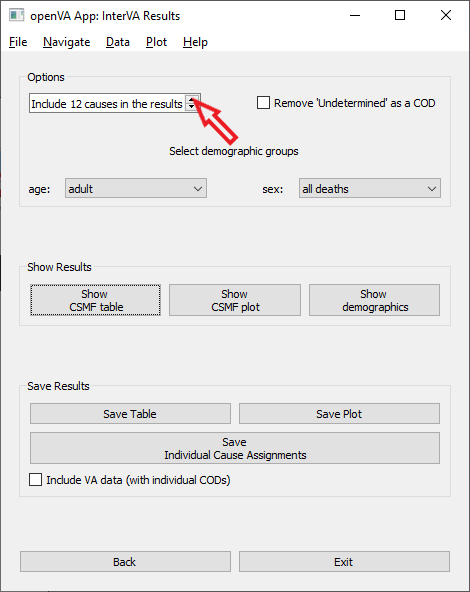
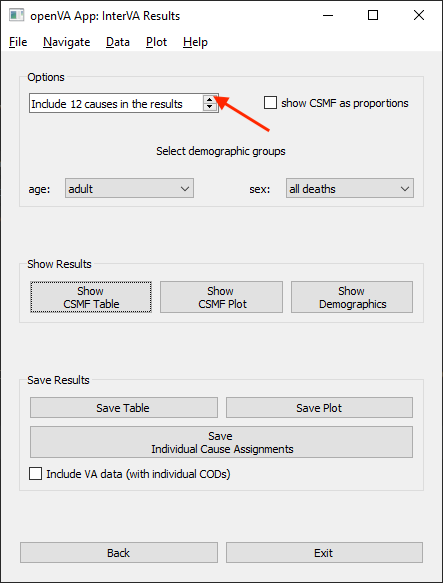
updated docs; fixed window title for popup window showing IDs for VA records removed by data checks

diff --git a/pyopenva/command_center.py b/pyopenva/command_center.py
@@ -911,7 +911,8 @@ class CommandCenter(QWidget):
                 msg += "\n(InterVA is available.)\n\n"
                 # alert = QMessageBox()
                 # alert.setText(msg)
-                alert = ScrollMessageBox(msg, id_removed)
+                alert = ScrollMessageBox("openVA App: InSilicoVA message",
+                                         msg, id_removed)
                 alert.exec()
                 self.btn_insilicova_options.setEnabled(True)
                 self.btn_insilicova_run.setEnabled(True)
@@ -1076,7 +1077,8 @@ class CommandCenter(QWidget):
                    "because of missing data.")
             if self.pycrossva_data["ID"].is_unique:
                 msg += "  IDs are listed below."
-            alert = ScrollMessageBox(msg, id_removed)
+            alert = ScrollMessageBox("openVA App: InterVA message",
+                                     msg, id_removed)
             alert.exec()
             self.interva_log = None
             self.interva_results = None
@@ -1412,16 +1414,16 @@ class PyCrossVADialog(QDialog):
 
 class ScrollMessageBox(QMessageBox):
 
-    def __init__(self, msg, l, *args, **kwargs):
+    def __init__(self, title, msg, msg_list, *args, **kwargs):
         QMessageBox.__init__(self, *args, **kwargs)
-        self.setWindowTitle("openVA App: InSilicoVA message")
+        self.setWindowTitle(title)
         scroll = QScrollArea(self)
         scroll.setWidgetResizable(True)
         self.content = QWidget()
         scroll.setWidget(self.content)
         lay = QVBoxLayout(self.content)
         lay.addWidget(QLabel(msg, self))
-        for item in l:
+        for item in msg_list:
             lay.addWidget(QLabel(item, self))
-        self.layout().addWidget(scroll, 0, 0, 1, self.layout().columnCount())
+        self.layout().addWidget(scroll)
         self.setStyleSheet("QScrollArea{min-width:500 px; min-height: 400px}")

diff --git a/pyopenva/efficient.py b/pyopenva/efficient.py
@@ -886,7 +886,8 @@ class Efficient(QWidget):
                 if self.pycrossva_data["ID"].is_unique:
                     msg += "  IDs are listed below."
                 msg += "\n(InterVA is available.)\n\n"
-                alert = ScrollMessageBox(msg, id_removed)
+                alert = ScrollMessageBox("openVA App: InSilicoVA message",
+                                         msg, id_removed)
                 alert.exec()
                 self.btn_insilicova_run.setEnabled(True)
                 self.btn_load_data.setEnabled(True)
@@ -1014,7 +1015,8 @@ class Efficient(QWidget):
                    "because of missing data.")
             if self.pycrossva_data["ID"].is_unique:
                 msg += "  IDs are listed below."
-            alert = ScrollMessageBox(msg, id_removed)
+            alert = ScrollMessageBox("openVA App: InterVA message",
+                                     msg, id_removed)
             alert.exec()
             self.btn_insilicova_run.setEnabled(True)
             self.btn_load_data.setEnabled(True)
@@ -1654,9 +1656,9 @@ class Efficient(QWidget):
 
 class ScrollMessageBox(QMessageBox):
 
-    def __init__(self, msg, msg_list, *args, **kwargs):
+    def __init__(self, title, msg, msg_list, *args, **kwargs):
         QMessageBox.__init__(self, *args, **kwargs)
-        self.setWindowTitle("openVA App: InSilicoVA message")
+        self.setWindowTitle(title)
         scroll = QScrollArea(self)
         scroll.setWidgetResizable(True)
         self.content = QWidget()

diff --git a/docs/source/conf.py b/docs/source/conf.py
@@ -9,12 +9,12 @@
 project = 'openVA App'
 copyright = '2023, openVA Team'
 author = 'openVA Team (Jason Thomas, Sherry Zhao, & Peter Choi)'
-release = '0.0.1'
+release = '1.1'
 
 # -- General configuration ---------------------------------------------------
 # https://www.sphinx-doc.org/en/master/usage/configuration.html#general-configuration
 
-extensions = []
+extensions = ['sphinxemoji.sphinxemoji',]
 
 templates_path = ['_templates']
 exclude_patterns = []

diff --git a/docs/source/custom.rst b/docs/source/custom.rst
@@ -132,8 +132,8 @@ button will produce a message stating that "InSilicoVA is unavailable.  At least
 
 Controls for the InSilicoVA algorithm are located at the top of the "Algorithms" panel on the right side of the
 "Command Center" window.  There are four options which are accessible by clicking on the "Set Options" button.  Doing so
-will produce a new window (entitled "InSilicoVA Options") with the following controls: (1) Number of Iterations, (2) Automatically
-increase chain length until convergence, (3) Jump Scale, and (4) Set Seed.  
+will produce a new window (entitled "InSilicoVA Options") with the following controls: (1) Number of Iterations,
+(2) Automatically increase chain length until convergence, (3) Jump Scale, and (4) Set Seed.
 
 
 .. image:: img/cust_cc_insilicova_options.png
@@ -225,8 +225,8 @@ the beginning.  Once the results are ready, the message below the progress bar w
 and you will be able to save the log file from the data checks by clicking on the "Save log from data checks" button.
 
 Clicking on the "Results" button, which will take you to a new window where you will be able to access the cause
-of death results produced.  Clicking the "Go Back to User Mode Selection" button will return to the window where you can select the
-mode, and you can click the "Exit" button to close the openVA App.
+of death results produced.  Clicking the "Go Back to User Mode Selection" button will return to the window where you can
+select the mode, and you can click the "Exit" button to close the openVA App.
 
 
 .. _cust_step4:
@@ -235,26 +235,29 @@ Step 4: View and Save Results
 =============================
 
 In the "Results" window, there are several options for tailoring the COD results for both algorithms.  There is an
-"InSilicoVA" tab and an "InterVA" tab near the top of the window.  On either tab, you are also able to view the CSMF (cause-specific mortality fractions)
-results as a table or plot, as well as saving these results as a CSV or PDF file.  The age and sex distribution of the
-deaths can also be viewed as a table, and the individual cause assignments can be saved as a CSV file.
+"InSilicoVA" tab and an "InterVA" tab near the top of the window.  On either tab, you are also able to view the CSMF
+(cause-specific mortality fractions) results as a table or plot, as well as saving these results as a CSV or PDF file.
+The age and sex distribution of the deaths can also be viewed as a table, and the individual cause assignments can be
+saved as a CSV file.
 
 
 .. image:: img/cust_results.png
 
 
-Just above the algorithm tabs at the top of the "Results" window is a box where you can choose the number of causes to include
-when viewing or saving the COD results.  The default is "Include 5 causes in the results", but clicking the up arrow
-at the side of the box will add more causes to the summaries, while clicking the down arrow includes fewer causes.
+Just above the algorithm tabs at the top of the "Results" window is a box where you can choose the number of causes to
+include when viewing or saving the COD results.  The default is "Include 5 causes in the results", but clicking the up
+arrow at the side of the box will add more causes to the summaries, while clicking the down arrow includes fewer causes.
 
 When exploring results from the InterVA algorithm, it is also possible to exclude "Undetermined" as a cause of death
-by clicking the box next to the label "Remove 'Undetermined' as a COD".  Since InSilicoVA does not assign "Undetermined"
-as a COD, this option is not available when exploring InSilicoVA results.
+by unchecking the box next to the label "Count uncertain assignments as 'Undetermined'" -- simply check or uncheck this
+option by clicking on the box.  Since InSilicoVA does not assign "Undetermined" as a COD, this option is not available
+when exploring InSilicoVA results.
 
-Near the top of the window is a panel labeled "Select demographic groups", with options for limiting the results to a specific age or sex group.
-The default for both demographic indicators is to include "all deaths".  However, clicking on the arrows at the side
-of each box will present options to restrict the results to adults, children or neonates.  Similarly, the results
-can also be set to only include either females or males.  Combinations are also possible (e.g., female children).
+Near the top of the window is a panel labeled "Select demographic groups", with options for limiting the results to a
+specific age or sex group.  The default for both demographic indicators is to include "all deaths".  However, clicking
+on the arrows at the side of each box will present options to restrict the results to adults, children or neonates.
+Similarly, the results can also be set to only include either females or males.  Combinations are also possible (e.g.,
+female children).
 
 The middle panel of the Results window contains three buttons for viewing either the CSMF or a cross tabulation of
 the deaths by the sex and age categories (described just above).  Clicking on any of these three buttons will produce
@@ -274,16 +277,16 @@ label CSMF, the standard error is listed in the next column, and the final three
 plot for InSilicoVA.  On the other hand, InterVA does not include uncertainty, so there is only a single value for
 the CSMF for each cause of death.
 
-The bottom panel on the "InterVA" tab, labeled "Save Results", contains three buttons for saving the CSMF results as either a table (in CSV
-file) or a plot (in a PDF file), as well as a button for saving the individual cause assignments as a CSV file.  Again,
-the options for selecting a demographic group are reflected in the saved results.  For example, if the "male" and
-"neonate" options are selected, then the saved files will contain the CSMF for male neonates, or the individual causes
-assigned only to members of this group.  When saving the individual cause assignments, you can merge the original VA
-data (loaded into the app in a Step 2) with the CSV file by first checking the box labeled
-"Include VA data (with individual CODs)" and then clicking the "Save Individual Cause Assignments" button.  It is also possible
+The bottom panel on the "InterVA" tab, labeled "Save Results", contains three buttons for saving the CSMF results as
+either a table (in CSV file) or a plot (in a PDF file), as well as a button for saving the individual cause assignments
+as a CSV file.  Again, the options for selecting a demographic group are reflected in the saved results.  For example,
+if the "male" and "neonate" options are selected, then the saved files will contain the CSMF for male neonates, or the
+individual causes assigned only to members of this group.  When saving the individual cause assignments, you can merge
+the original VA data (loaded into the app in a Step 2) with the CSV file by first checking the box labeled "Include VA
+data (with individual CODs)" and then clicking the "Save Individual Cause Assignments" button.  It is also possible
 to include either the propensities (with InterVA) or the probabilities (with InSilicoVA) of each cause of death in the
-saved CSV file by checking the box next to the label "Include probability of top cause (with individual CODs)".  With InterVA,
-only the top 3 causes can be included.
+saved CSV file by checking the box next to the label "Include probability of top cause (with individual CODs)".  With
+InterVA, only the top 3 causes can be included.
 
 The bottom panel of the "InSilicoVA" tab includes a fourth button, "Save All Cause Assignments", which allows you to
 save the probability of each cause of death for all valid VA records.

diff --git a/docs/source/vignette.rst b/docs/source/vignette.rst
@@ -57,8 +57,14 @@ to assign causes of death to the example data set included with the openVA App.
    box below the start button.  If the original VA data file is in the expected format, then pyCrossVA will have no
    problems and report that "pyCrossVA finished.  All good!"; otherwise, pyCrossVA will produce a message that typically
    lists columns that are missing in your data that are needed to create the input file for InterVA (or InSilicoVA).
-   Next, the openVA App will perform the data consistency checks and the progress bar will begin marching forward as
-   InterVA assigns causes to the VA data (this should take a minute or two).
+   Next, the openVA App will perform the data consistency checks and if any VA records are removed from the data set
+   (due to missing data), then a new window will appear with a list of IDs for the records that have been removed.
+   (If no deaths are removed, then this window will not appear.)
+
+   .. image:: img/vignette_run_interva_data_check_msg.png
+
+   Once you click the "OK" button on the pop-up window the message will close and the progress bar will begin marching
+   forward as InterVA assigns causes to the VA data (this should take a minute or two).
 
    .. image:: img/vignette_running_interva.png
 
@@ -86,12 +92,13 @@ to assign causes of death to the example data set included with the openVA App.
 
 #. **Results window**: The "Results" window has three different panels: "Options", "Show Results", and "Save Results".
    The "Options" panel (at the top of the window) includes controls for choosing the number of CODs to include in
-   summaries of the cause-specific mortality fractions (or CSMFs).  Here, you can also remove `Undetermined` as from
-   the CSMF summaries and examine your results for different age groups (adults, children, and neonates), for females
-   or males, or a combination of the two demographic variables.  In the "Show Results" panel located in the middle of
-   the window, includes buttons for viewing the CSMF distribution as a table or a plot.  There is also a
-   "Show demographics" button which will display a table with the number of deaths by age and sex.  These results,
-   as well as the individual cause assignments, can be saved using the buttons in the bottom panel (under the label
+   summaries of the cause-specific mortality fractions (or CSMFs).  Here, you can also choose to display the CSMF
+   results as proportions (the default is to use percentages ranging from 0 to 100), and to examine your results for
+   different age groups (adults, children, and neonates), for females or males, or a combination of the two demographic
+   variables.  In the "Show Results" panel located in the middle of the window, includes buttons for viewing the CSMF
+   distribution as a table or a plot.  There is also a "Show demographics" button which will display a table with the
+   number of deaths by age and sex.  These results, as well as the individual cause assignments, can be saved using the
+   buttons in the bottom panel (under the label
    "Save Results").
 
    .. image:: img/vignette_interva_results.png
@@ -138,28 +145,13 @@ to assign causes of death to the example data set included with the openVA App.
 
    .. image:: img/vignette_interva_ntop_12.png
 
-   Next, note how the box next to the label "Remove 'Undetermined' as a COD" is NOT checked.  Thus, when we look at the
-   CSMF table, it is possible to have `Undetermined` included as a cause.  To see this, click on the "Show CSMF table"
-   button in the middle panel of the window.
+   Next, click on the "Show CSMF table" button in the middle panel of the window.
 
    .. image:: img/vignette_interva_show_tab.png
 
-   Note that the tenth row of the table is `Undetermined` which applies to about 3% of adult deaths.  Again, to close
-   this window, simply click on the "X" in the top right corner of the window with the CSMF table.
+   Again, to close this window, simply click on the "X" in the top right corner of the window with the CSMF table.
 
-   .. image:: img/vignette_interva_tab_with_undet.png
-
-#. **Remove Undetermined as a cause**:  Now, let's see another version of the results by clicking in the checkbox next
-   to the label "Remove 'Undetermined' as a COD".  Next, repeat the previous step to display the CSMF summary by
-   clicking on the "Show CSMF table" button in the "Show Results" panel.
-
-   .. image:: img/vignette_interva_check_no_undet.png
-
-   In the new window displaying the CSMF table, we now see a new cause, Assault, that is now included in the top 12
-   causes of the CSMF because `Undetermined` has been removed.  To close this window, simply click on the "X" in the
-   top right corner of the window with the CSMF table.
-
-   .. image:: img/vignette_interva_tab_no_undet.png
+   .. image:: img/vignette_interva_tab.png
 
 #. **Save the individual cause assignments with VA data**: In the final steps, we will merge the original VA data to
    the individual causes assigned by InterVA, and then save the results as a CSV file.  To do this, first click in the
@@ -176,7 +168,8 @@ to assign causes of death to the example data set included with the openVA App.
 
    .. image:: img/vignette_interva_indiv.png
 
-Congratulations!  You have finished the tour of the openVA App and are hopefully ready to begin analyzing your own
+
+|:tada:| Congratulations |:tada:|  You have finished the tour of the openVA App and are hopefully ready to begin analyzing your own
 data.
 
 ===================  ==================================  =================================  ================

diff --git a/docs/source/faq.rst b/docs/source/faq.rst
@@ -57,10 +57,22 @@ Frequently Asked Questions
     pyCrossVA also allows users to specify the ID column.
 
 **The openVA App tells me that some deaths have failed the data checks.  How do I know which deaths failed?**
-    The log file from the data checks includes the ID (or row number) of the VA records that fail the data
-    checks.  These can be saved by clicking the "Save log file from data checks" button located in the
-    "openVA App: InterVA" or "openVA App: InSilicoVA" in the One-Click Wizard mode, or in the "the "Command Center"
-    window in the Customizable mode.
+    After you click one of the buttons to run an algorithm, a window will appear with the IDs of the records
+    that failed the data checks.  Also, the log file from the data checks includes the ID (or row number) of the VA
+    records that fail the data checks.  These can be saved by clicking the "Save log file from data checks" button
+    located in the "openVA App: InterVA" or "openVA App: InSilicoVA" in the One-Click Wizard mode, or in the "the
+    "Command Center" window in the Customizable mode.
+
+.. _faq_undetermined:
+
+**What does the option "Count uncertain assignments as 'Undetermined'" actually do?**
+    InterVA calculates propensity values that indicate how likely each cause of death is for each VA record.  If
+    the largest propensity value does not exceed a threshold, then InterVA will assign "indeterminate" (or
+    "undetermined") as the cause of death.  There are similar steps for determining if a second and third most likely
+    cause should be assigned (or if the remaining propensity should be assigned to "indeterminate").  The openVA App
+    follows these steps when the "Count uncertain assignments as'Undetermined'" option is selected, it the CSMF results
+    can include the fraction of deaths that have an "Undetermined" cause.  When this option is not chosen, the openVA
+    App will not use the InterVA thresholds, and the CSMF results **will not** include the "Undetermined" category.
 
 
 ===================  =======================================  =================================  ==========================

diff --git a/docs/source/wizard.rst b/docs/source/wizard.rst
@@ -237,9 +237,6 @@ Just below is a label "Select demographic groups", with options for limiting the
 The default for both demographic indicators is to include "all deaths".  However, clicking on the arrows at the side
 of each box will present options to restrict the results to adults, children or neonates.  Similarly, the results
 can also be set to only include either females or males.  Combinations are also possible (e.g., female children).
-When exploring results from the InterVA algorithm, it is also possible to exclude "Undetermined" as a cause of death
-by clicking the box next to the label "Remove 'Undetermined' as a COD".  Since InSilicoVA does not assign "Undetermined"
-as a COD, this option is not available when exploring InSilicoVA results.
 
 The middle panel of the Results window contains three buttons for viewing either the CSMF or a cross tabulation of
 the deaths by the sex and age categories (described just above).  Clicking on any of these three buttons will produce

diff --git a/README.md b/README.md
@@ -12,14 +12,9 @@ Graphical User Interface for the openVA tool implemented in Python.
   + Mac: `python setup.py bdist_dmg`
 
 * Build docs with: `sphinx-build -b html docs/source/ pyopenva/docs -a`
+  + this is included in setup.py
 
-## To Do
+## Known Bugs
 
-* Set up splash screen?
-
-* Can we set up continuous integration service that builds executables/apps and
-adds them (for different OS's) to this site as releases?  Something like [https://github.com/ncipollo/release-action](https://github.com/ncipollo/release-action)
-
-* Unit tests for Qt: [pytest-qt](https://pytest-qt.readthedocs.io/en/latest/intro.html)
-
-
+* GUI crashes on Mac when trying to view help documentation
+  + cx_Freeze [Issue 933](https://github.com/marcelotduarte/cx_Freeze/issues/933)
